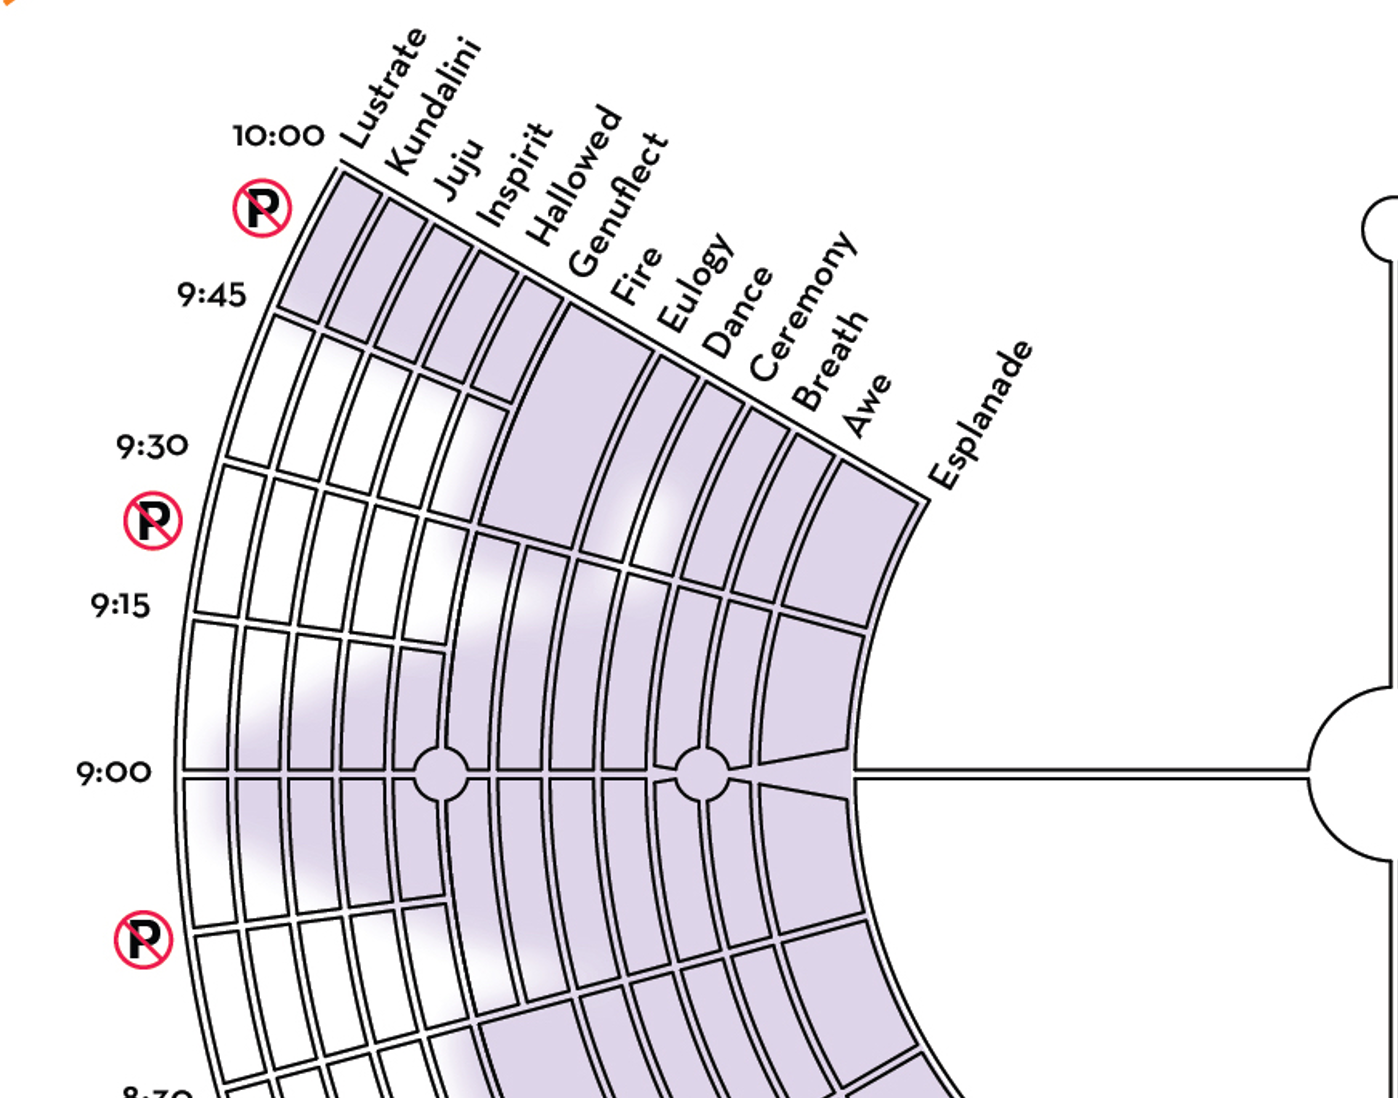
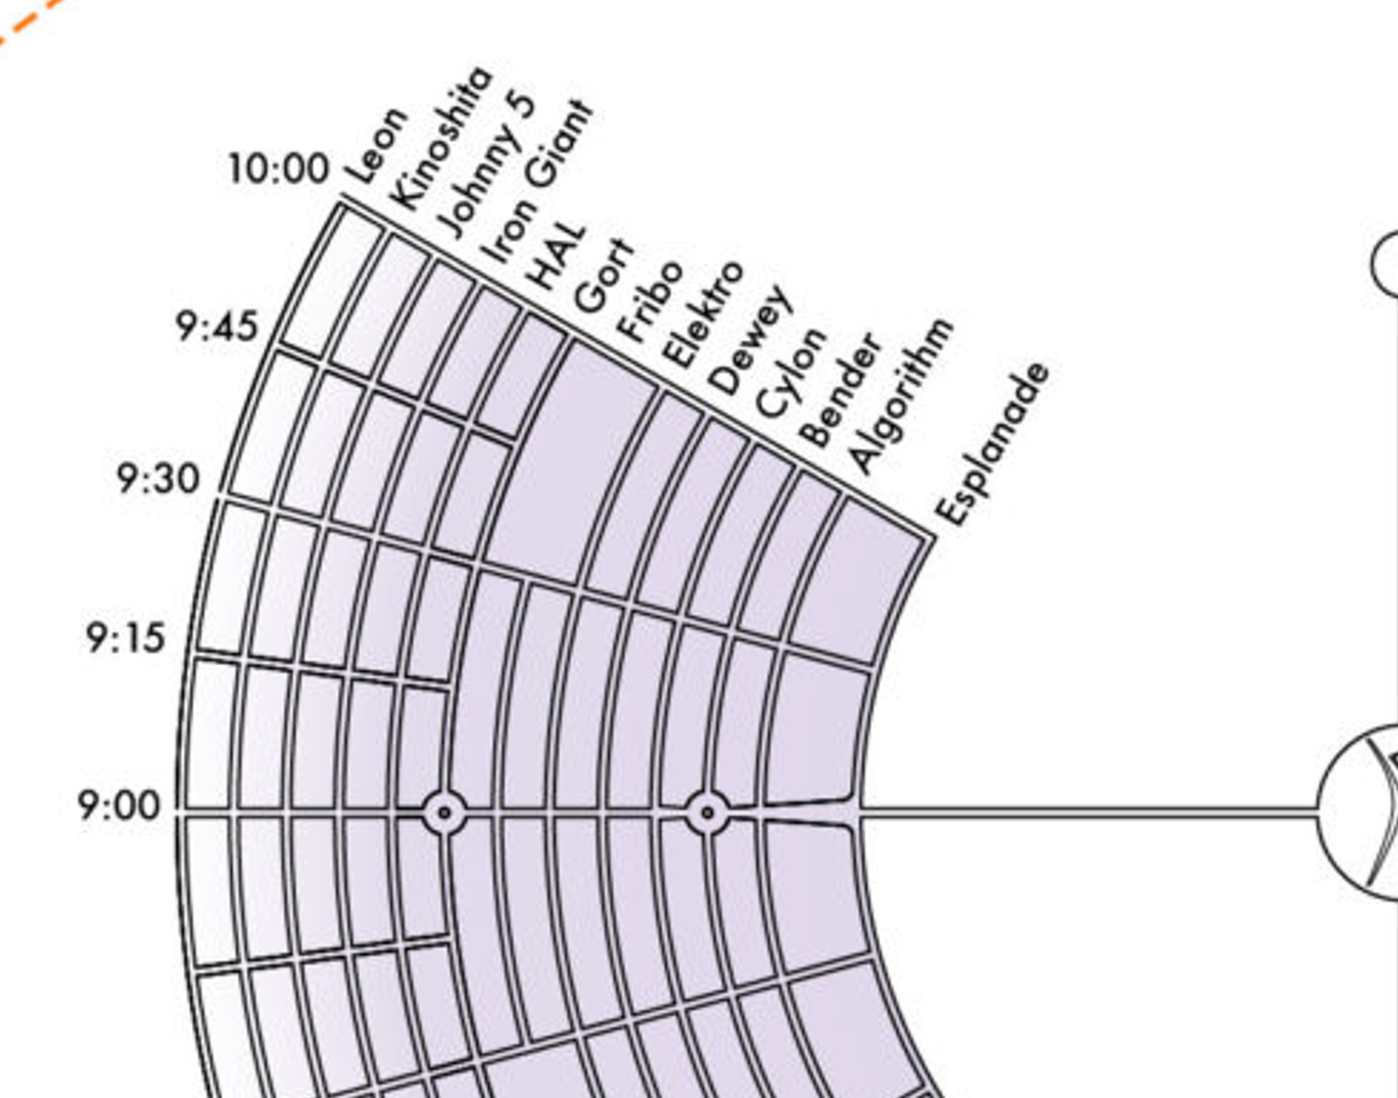
Fixed assignment of x,y coordinates when saving edits
This commit also includes the new 2018 map.

Changed region(s): [[0.0308, 0.031, 1.0, 1.0], [0.0, 0.0, 0.0615, 0.031]]

diff --git a/src/Controllers/BurnerAdmin.php b/src/Controllers/BurnerAdmin.php
@@ -573,9 +573,22 @@ class BurnerAdmin extends FaceController
                             $row->y = $rowCoord->y;
                             $row->save();
                             $msg .= $tbls[$tbl] . ' #' . $row->getKey() . ' (' . $row->x . ', ' . $row->y . '), ';
+                        } elseif ($row->addyLetter == 'Landing Strip') {
+                            $rowCoord = CoordConvert::where('addyLetter', 'LIKE', 'Landing Strip')
+                                ->first();
+                            if ($rowCoord) {
+                                $ranOne = true;
+                                $row->x = $rowCoord->x;
+                                $row->y = $rowCoord->y;
+                                $row->save();
+                                $msg .= $tbls[$tbl] . ' #' . $row->getKey() . ' (' . $row->x . ', ' . $row->y . '), ';
+                            } else {
+                                $msg .= 'failed finding ' . $tbls[$tbl] . ' #' . $row->getKey() . ' at ' 
+                                    . $row->addyClock . ' & ' . $row->addyLetter . ', ';
+                            }
                         } else {
-                            $msg .= 'failed finding ' . $tbls[$tbl] . ' #' . $row->getKey() . ' at ' . $row->addyClock 
-                                . ' & ' . $row->addyLetter . ', ';
+                            $msg .= 'failed finding ' . $tbls[$tbl] . ' #' . $row->getKey() . ' at ' 
+                                . $row->addyClock . ' & ' . $row->addyLetter . ', ';
                         }
                     }
                 } else {

diff --git a/src/Controllers/BurnerMap.php b/src/Controllers/BurnerMap.php
@@ -77,7 +77,7 @@ class BurnerMap extends FaceController
                     ->first();
                 if ($coord) {
                     $x = $coord->x;
-                    $y = $coord->x;
+                    $y = $coord->y;
                 }
             }
             
